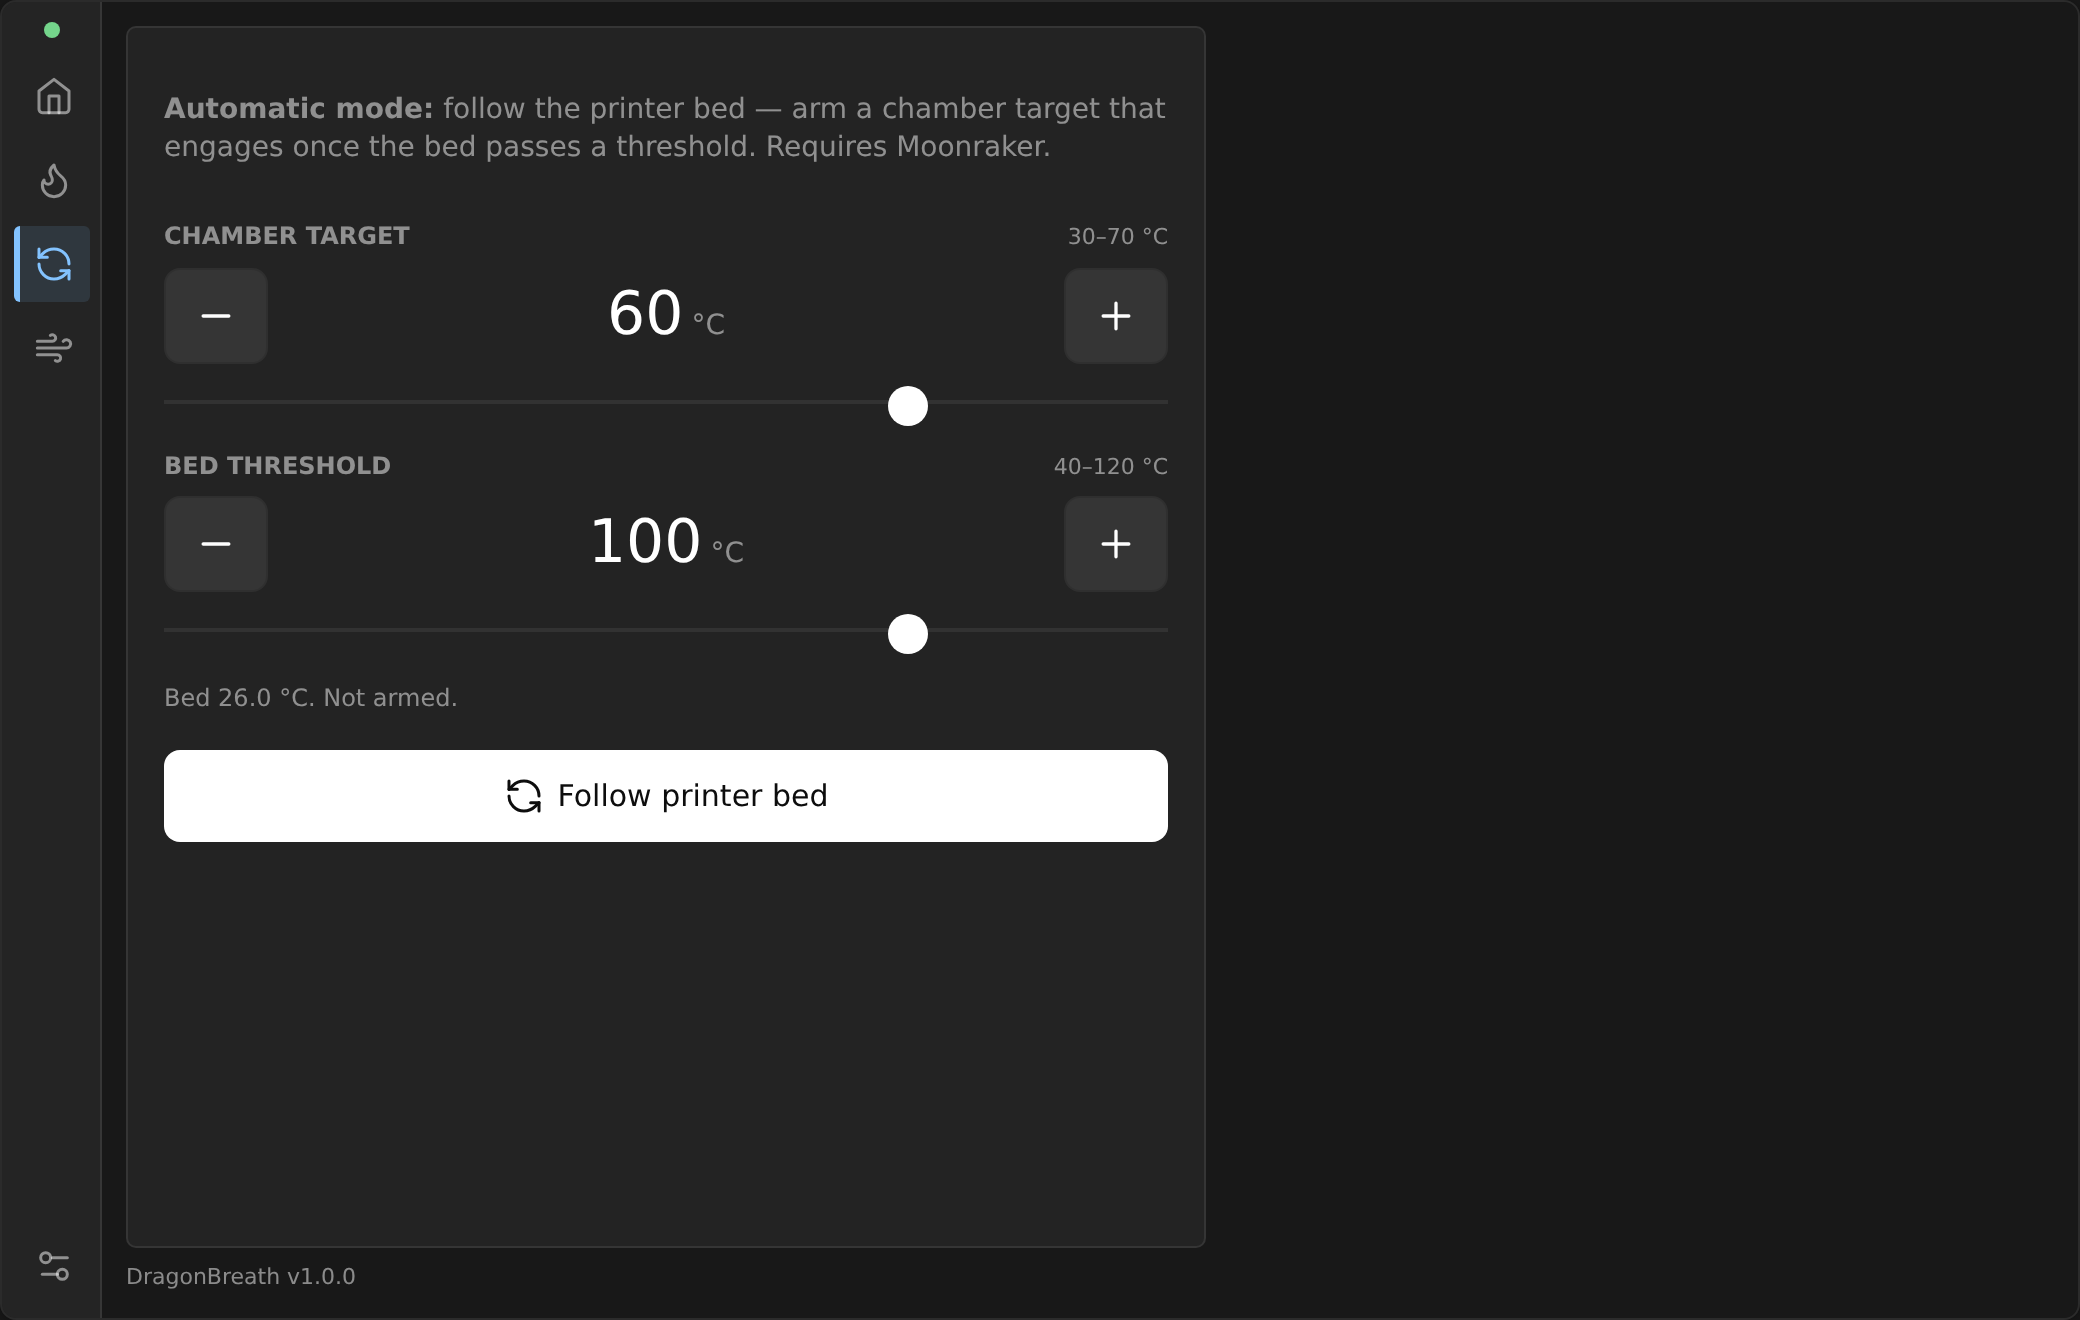
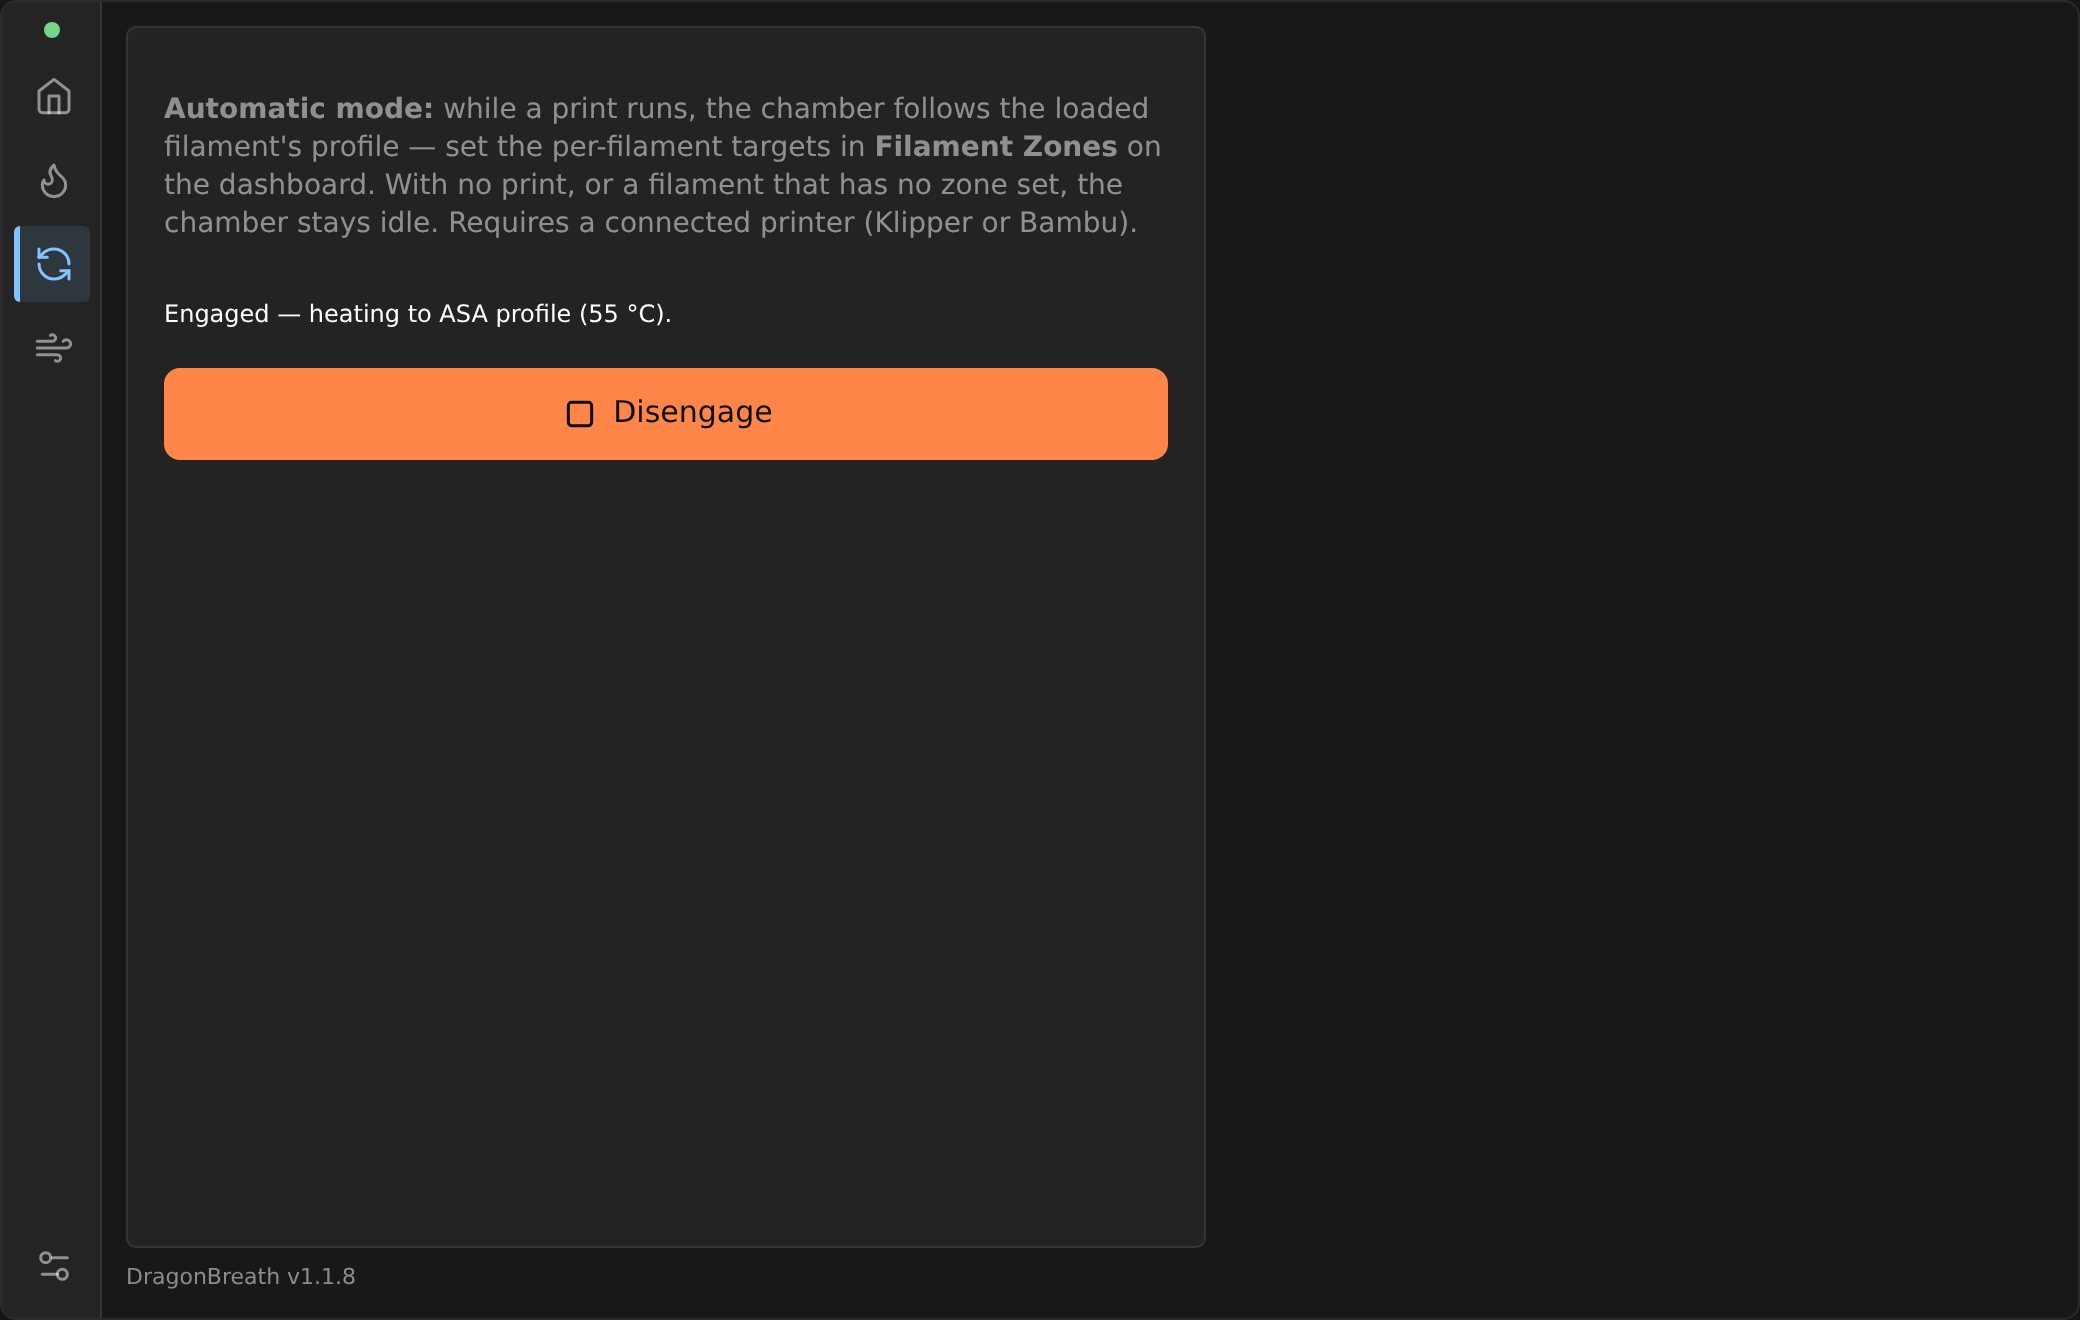
docs: refresh README screenshots + prose for the current UI
Regenerate all 8 dashboard/setup screenshots against the current SPA
(v1.1.8): filament-profile AUTO, one-row Filter + quick-control presets,
Filament Zones (combined ABS/ASA + PA) and Custom Profiles on Settings,
control token relocated off Settings, realistic trend chart. Prose updated
to describe AUTO as following the loaded filament's zone profile (not the
printer bed) and the 'Filter' control name.

Claude-Session: https://claude.ai/code/session_012B9YKQ5yUenkyDUqdbn6HP

diff --git a/README.md b/README.md
@@ -111,7 +111,7 @@ python3 tools/flash.py --restore backups/stock-YYYYmmdd-HHMMSS.bin    # full USB
 | HTTP control API (`pb_httpd`) | ✅ API v2 (JSON command/state + SSE, CSRF-gated) — shipped in v0.3.0 |
 | Klipper-side helper (M141 / Fluidd) | ✅ [dragonbreath-klipper](https://github.com/plastikman/dragonbreath-klipper): `[heater_generic dragonbreath]` (M141/M191) + `[output_pin dragonbreath_filter]` (fan-only filtration toggle); API v2, deploy lockstep with the firmware |
 | Filament-dry mode | ✅ Timed dry with material presets; validated end-to-end on hardware |
-| Auto (follow-bed) mode | 🚧 Shipped in the state machine + UI; end-to-end hardware soak in progress |
+| Auto (follow-filament) mode | ✅ Chamber follows the **loaded filament's zone profile** (Klipper + Bambu); validated end-to-end on hardware |
 | Fan-only filtration | ✅ Standing fan-only band (`filter_temp`, opt-in/**off by default**) — runs on the bed setpoint independent of mode (stock-shaped) + mode-independent manual `filter` control (dashboard + API); idle-only to enable |
 | Install / revert | ✅ **No-USB**: installs over stock as an app-only OTA (stock partition layout); revert via **Boot inactive slot** or by re-uploading a stock image over web OTA |
 | Flasher (`tools/flash.py`) | ✅ Recovery/backup tool: `--backup-only` saves a verified full stock backup, `--restore` writes one back, default path unbricks over USB |
@@ -147,16 +147,16 @@ hardware limit. 60–65 °C covers ASA/ABS comfortably.
 ## Screenshots
 <p>
 <img src="docs/screenshots/dashboard.png" width="410" alt="Live status dashboard">
-<img src="docs/screenshots/auto.png" width="410" alt="Automatic (follow printer bed) mode">
+<img src="docs/screenshots/auto.png" width="410" alt="Automatic mode — chamber follows the loaded filament's profile">
 <img src="docs/screenshots/dry.png" width="410" alt="Timed filament-drying cycle">
 <img src="docs/screenshots/settings.png" width="410" alt="Settings: safety limits and sensor calibration">
 </p>
 
 The responsive, touch-first web UI, served by the device itself over plain HTTP on
 your LAN and embeddable in the Fluidd / Mainsail panel: the live **dashboard**
-(chamber / PTC temperature, trend, and quick controls incl. a **Filtration**
-fan-only toggle), **automatic** mode (arm a chamber target that follows the printer
-bed, with an optional fan-only filtration band below the heat threshold), a timed
+(chamber / PTC temperature, trend, and quick controls incl. a **Filter**
+fan-only toggle), **automatic** mode (the chamber follows the **loaded filament's
+zone profile**, with an optional fan-only Filter band), a timed
 filament-**drying** cycle with material presets, and **settings** (safety limits,
 comms watchdog, foldback cut, filtration temperature, and ±5 °C sensor
 calibration). Setup (`/setup`, Wi-Fi + control-source selector), OTA (`/fw`), a live
@@ -200,7 +200,7 @@ others are disabled — there is exactly one controller.
 - **Klipper / Moonraker** — *first-class; the primary target.* With the
   [dragonbreath-klipper](https://github.com/plastikman/dragonbreath-klipper) helper it
   shows up as `[heater_generic dragonbreath]` (M141/M191) plus a fan-only filtration
-  toggle, and AUTO mode follows the printer bed. Validated end-to-end on hardware.
+  toggle, and AUTO mode follows the loaded filament's zone profile. Validated end-to-end on hardware.
 - **Klipper MQTT** — an alternative for managed Klipper installs that permit
   `moonraker.conf`, `printer.cfg`, and broker configuration but cannot install a
   Klippy extra. Save its broker settings on `/setup`, then open `/km-config` to
